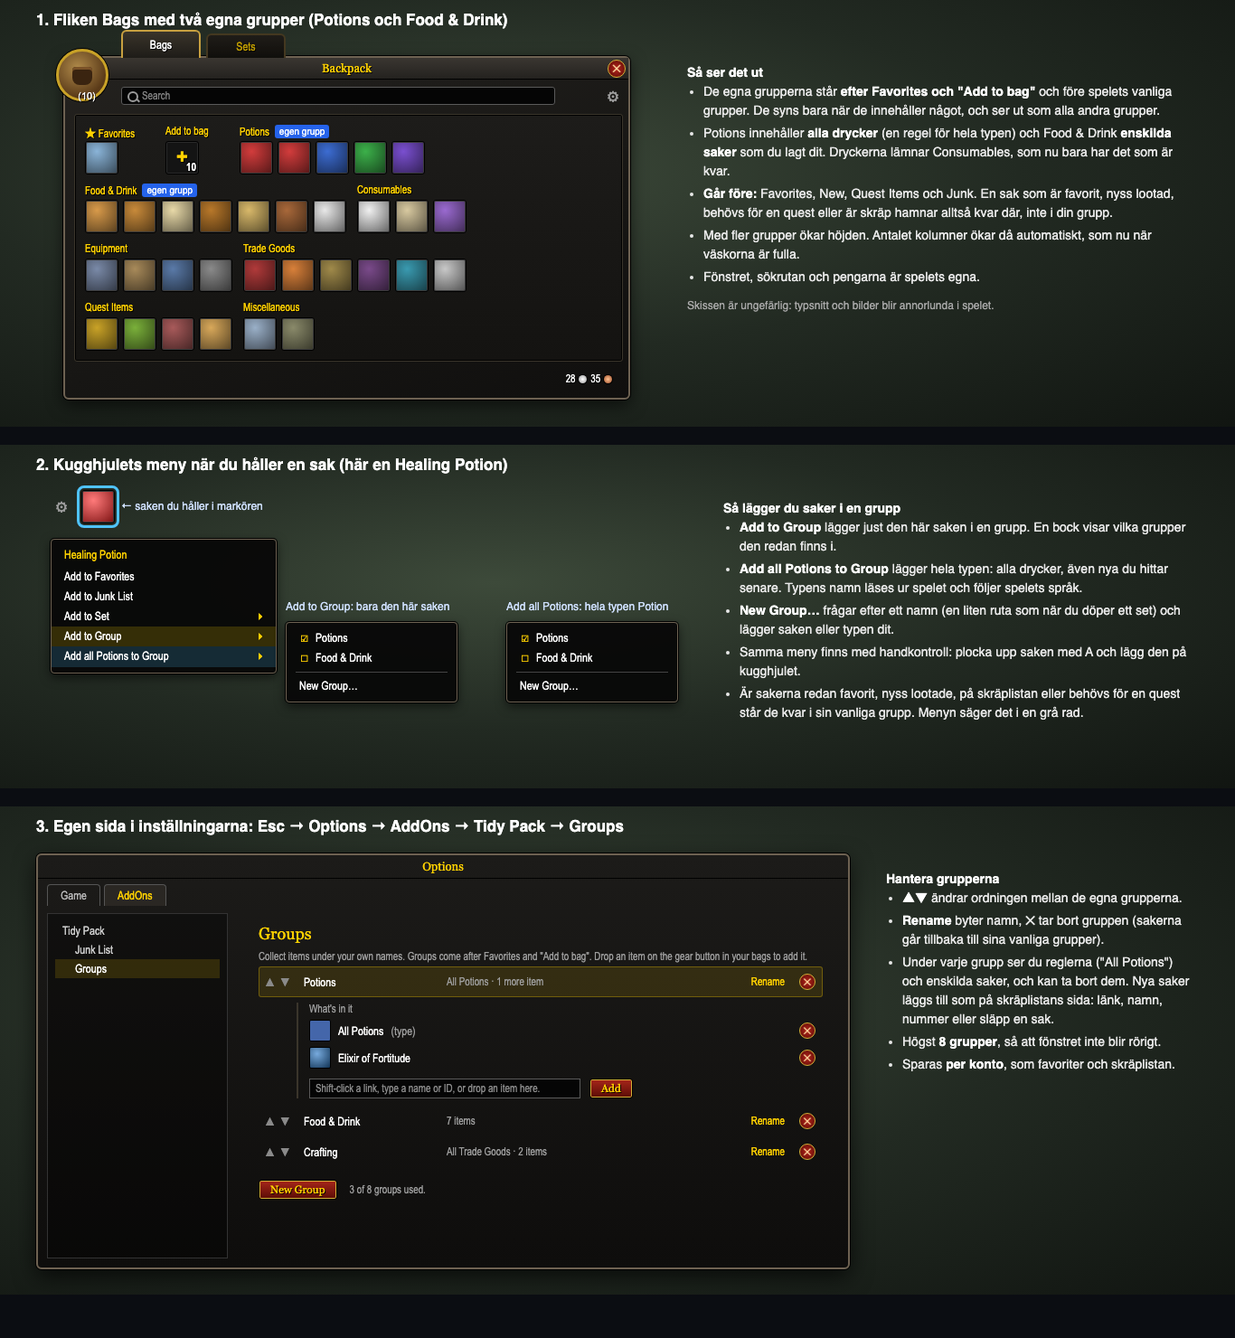
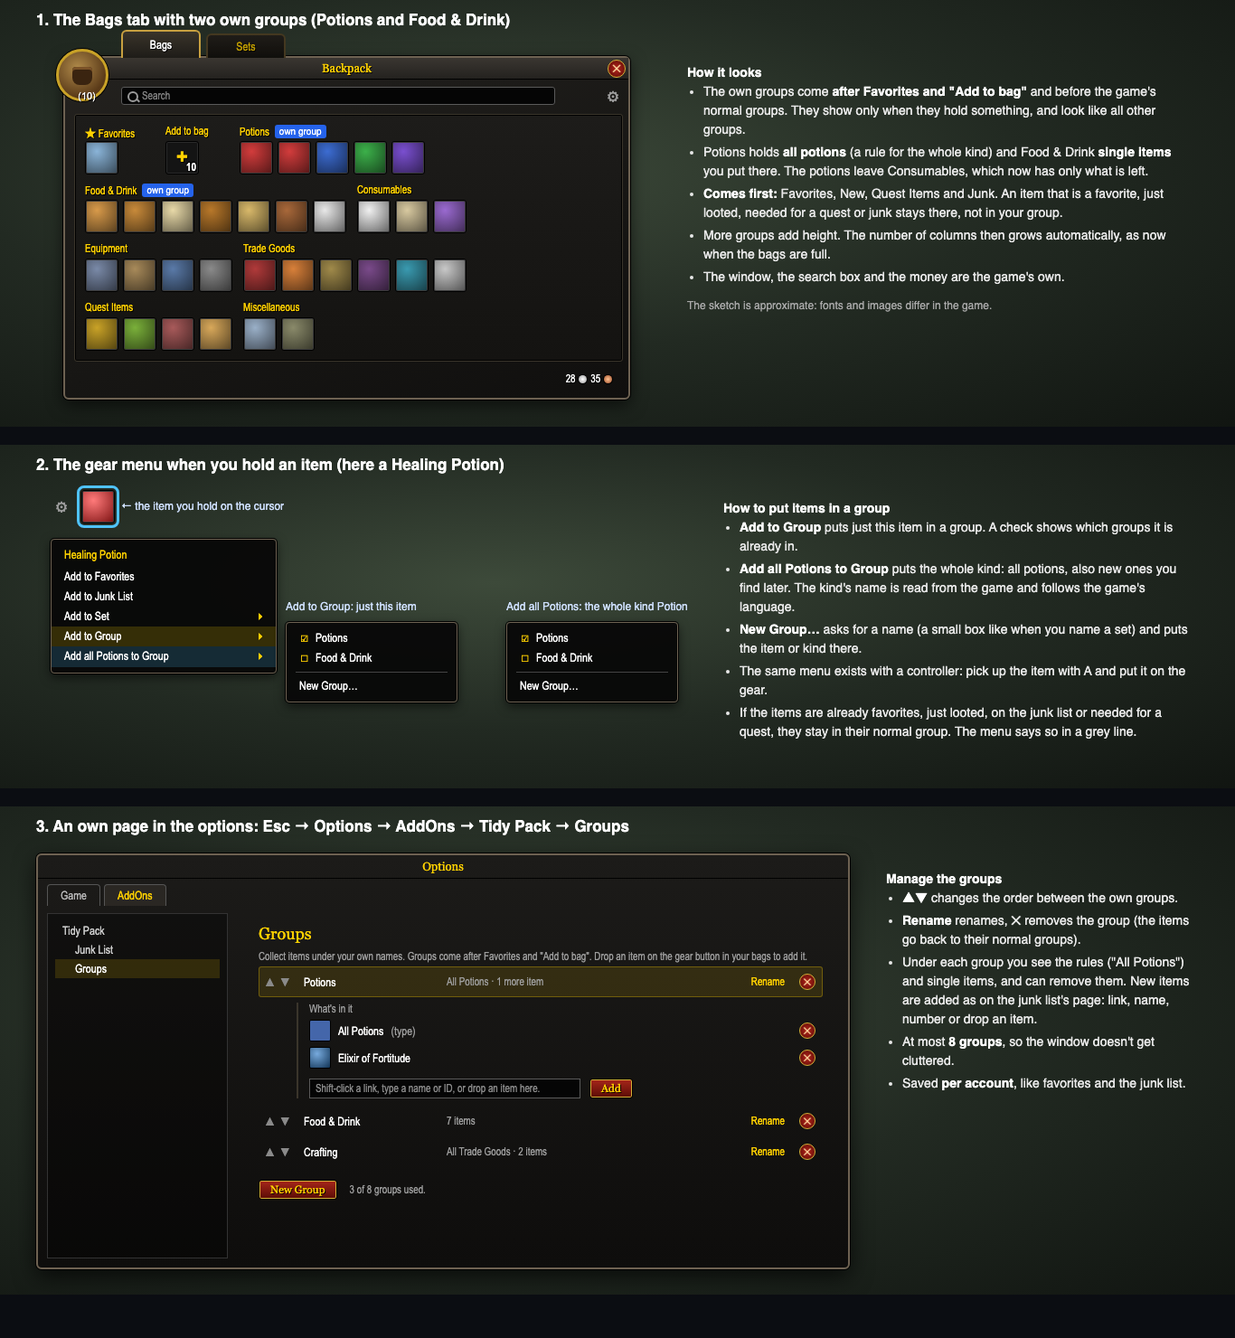
Translate .design/sketch-groups to English (#7)

diff --git a/.design/sketch-groups.html b/.design/sketch-groups.html
@@ -1,13 +1,13 @@
 <!DOCTYPE html>
-<html lang="sv">
+<html lang="en">
 <head>
 <meta charset="utf-8">
-<title>Tidy Pack – skiss av egna grupper</title>
+<title>Tidy Pack – sketch of own groups</title>
 <style>
   :root {
-    --wow-gold: #ffd100;       /* NORMAL_FONT_COLOR: rubriker och vanlig text */
-    --wow-white: #ffffff;      /* HIGHLIGHT_FONT_COLOR: framhävd text */
-    --wow-gray: #808080;       /* GRAY_FONT_COLOR: avstängt */
+    --wow-gold: #ffd100;       /* NORMAL_FONT_COLOR: headings and normal text */
+    --wow-white: #ffffff;      /* HIGHLIGHT_FONT_COLOR: highlighted text */
+    --wow-gray: #808080;       /* GRAY_FONT_COLOR: disabled */
     --title-font: "Friz Quadrata", "Friz Quadrata TT", Georgia, "Times New Roman", serif;
     --text-font: "Arial Narrow", "Helvetica Neue", Arial, sans-serif;
   }
@@ -23,18 +23,18 @@
   .controls legend { color: #a8a8a8; padding: 0 4px; }
   .controls label { margin-right: 12px; cursor: pointer; white-space: nowrap; }
 
-  /* Skärmen: 1366 × 768 enheter, skalas ned för att få plats i webbläsaren. */
+  /* The screen: 1366 × 768 units, scaled down to fit in the browser. */
   .viewport { width: 100%; max-width: 1366px; aspect-ratio: 1366 / 768; position: relative; overflow: hidden;
     border-radius: 6px; box-shadow: 0 0 0 1px #2a2f3a; }
   .screen { position: absolute; left: 0; top: 0; width: 1366px; height: 768px; transform-origin: 0 0;
     background: radial-gradient(ellipse at 50% 35%, #3d4a3a 0%, #222a22 45%, #111511 100%); }
 
-  /* Spelets standardgränssnitt, ungefär där det ligger från början. */
+  /* The game's default interface, roughly where it starts. */
   .blizz { position: absolute; border: 1px dashed rgba(255,255,255,.28); border-radius: 4px;
     color: rgba(255,255,255,.45); font: 12px var(--text-font); display: flex; align-items: center;
     justify-content: center; text-align: center; background: rgba(0,0,0,.18); }
 
-  /* Spelets väskfönster: ram med porträtt, titelrad och stängknapp. */
+  /* The game's bag window: frame with portrait, title bar and close button. */
   .bagframe { position: absolute; background: linear-gradient(160deg, #24221f 0%, #171614 60%, #100f0e 100%);
     border: 2px solid #6e6252; border-radius: 6px; box-shadow: 0 0 0 1px #000, 0 6px 18px rgba(0,0,0,.6); }
   .bagframe .titlebar { position: absolute; left: 0; right: 0; top: 0; height: 24px; border-bottom: 1px solid #000;
@@ -50,7 +50,7 @@
     background: radial-gradient(#b22219, #5b0d08); border: 1px solid #d4af37; color: #ffd9a0;
     font: bold 12px/18px Arial, sans-serif; text-align: center; }
 
-  /* Innehållet. Alla lägen räknas från fönstrets övre vänstra hörn. */
+  /* The content. All positions count from the window's top left corner. */
   .abs { position: absolute; }
   .search { height: 20px; border: 1px solid #5a5a5a; border-radius: 3px; background: #050505;
     font: 12px var(--text-font); color: var(--wow-gray); padding: 1px 6px 0 22px; line-height: 17px; }
@@ -58,17 +58,17 @@
     border: 2px solid #9a9a9a; border-radius: 50%; }
   .search::after { content: ""; position: absolute; left: 15px; top: 13px; width: 5px; height: 2px;
     background: #9a9a9a; transform: rotate(45deg); }
-  /* ★-knappen: svag tills du håller en sak. */
+  /* The ★ button: faint until you hold an item. */
   .starbutton { width: 26px; height: 26px; color: var(--wow-gold); font: 22px/26px Arial, sans-serif;
     text-align: center; text-shadow: 0 0 4px #ffb000, 1px 1px 0 #000; }
   .starbutton.idle { opacity: .35; }
   .header { font: 12px var(--text-font); color: var(--wow-gold); text-shadow: 1px 1px 0 #000; white-space: nowrap; }
   .header .star { color: var(--wow-gold); }
-  /* Förslag: flikar ovanför fönstret (spelets PanelTopTabButtonTemplate) och fliken Sets. */
+  /* Proposal: tabs above the window (the game's PanelTopTabButtonTemplate) and the Sets tab. */
   .toptab { position: absolute; height: 26px; width: 84px; display: flex; align-items: center; justify-content: center;
     font: 12px var(--text-font); color: var(--wow-gold); text-shadow: 1px 1px 0 #000; border: 2px solid #5a4a2a;
     border-bottom: none; border-radius: 6px 6px 0 0; background: linear-gradient(#2a2620, #15130f); }
-  /* Flikarna som i Forevers trollbok, men ovanpå fönstrets kant; den valda högre och ljusare. */
+  /* The tabs as in Forever's spellbook, but on top of the window's edge; the chosen one taller and lighter. */
   .toptab { height: 27px; width: 88px; font-size: 13px; filter: brightness(0.75); z-index: 3; }
   .toptab.active { height: 31px; color: #fff; background: linear-gradient(#3a342a, #1e1c18); border-color: #c8a040; filter: none; }
   .setrow { position: absolute; height: 44px; border-radius: 3px; }
@@ -83,7 +83,7 @@
   .setrow .mini.gone { background: #222; box-shadow: inset 0 0 0 1px #555; }
   .setrow .worn.warnright { color: #ff9a2a; }
   .setshint { position: absolute; font: 11px var(--text-font); color: #9a9a9a; }
-  /* Förslag: specialväskorna längst ned, under en skiljelinje som i spelets egna fönster. */
+  /* Proposal: the special bags at the bottom, under a divider as in the game's own windows. */
   .divider { height: 1px; background: linear-gradient(90deg, transparent, #8a7440 15%, #8a7440 85%, transparent); }
   .header .bagicon { display: inline-block; width: 12px; height: 12px; margin-right: 4px; vertical-align: -2px;
     border-radius: 2px; background: linear-gradient(135deg, #a07040, #4a2a10); box-shadow: 0 0 0 1px #000; }
@@ -94,8 +94,8 @@
   .slot .count { right: 2px; bottom: 0; font-size: 12px; }
   .slot .ilvl { left: 2px; top: 0; }
   .slot .boe { left: 2px; bottom: 0; }
-  .slot.q2 { box-shadow: inset 0 0 0 2px #1eff00; }   /* ovanlig: grön ram */
-  .slot.q3 { box-shadow: inset 0 0 0 2px #0070dd; }   /* sällsynt: blå ram */
+  .slot.q2 { box-shadow: inset 0 0 0 2px #1eff00; }   /* uncommon: green border */
+  .slot.q3 { box-shadow: inset 0 0 0 2px #0070dd; }   /* rare: blue border */
   .slot.junk::after { content: ""; position: absolute; left: 2px; top: 2px; width: 9px; height: 9px;
     border-radius: 50%; background: radial-gradient(#e8d070, #8a6a10); box-shadow: 0 0 0 1px #000; }
   .slot.quest::after { content: "!"; position: absolute; left: 3px; top: 0; font: bold 14px Arial, sans-serif;
@@ -107,7 +107,7 @@
   .slot.empty { background: #141414; box-shadow: inset 0 0 0 1px #2a2a2a; }
   .slot.cursor { outline: 3px solid #4fc3ff; outline-offset: 2px; }
   .slot.disabled { filter: grayscale(.8) brightness(.55); }
-  /* Låset: en liten bygel och kropp uppe till höger. Syns bara hos en handlare. */
+  /* The lock: a small shackle and body at the top right. Shows only at a merchant. */
   .lock { position: absolute; right: 1px; top: 1px; width: 11px; height: 13px; }
   .lock::before { content: ""; position: absolute; left: 2px; top: 0; width: 7px; height: 7px;
     border: 2px solid #e8d070; border-bottom: none; border-radius: 4px 4px 0 0; }
@@ -119,14 +119,12 @@
   .coin.gold { background: radial-gradient(#fff2a0, #c9a227); }
   .coin.silver { background: radial-gradient(#ffffff, #9a9a9a); }
   .coin.copper { background: radial-gradient(#ffc090, #a0522d); }
-  /* Spelets röda knapp (UIPanelButtonTemplate). */
+  /* The game's red button (UIPanelButtonTemplate). */
   .redbutton { position: absolute; height: 22px; padding: 0 12px; border-radius: 3px; border: 1px solid #000;
     background: linear-gradient(#a8261a, #5a0c06); box-shadow: inset 0 0 0 1px #d4af37;
     font: 12px/20px var(--title-font); color: var(--wow-gold); text-shadow: 1px 1px 0 #000; white-space: nowrap; }
 
-  /* Förslag: spelets ruta för tips (mallen HelpTipTemplate, som ärver GlowBoxTemplate). Mörk ruta
-     med gul glöd, vit text och en gul pil mot det tipset handlar om. 226 enheter bred, som
-     HelpTip.width i spelets kod. */
+  /* Proposal: the game's tip box (the template HelpTipTemplate, which inherits GlowBoxTemplate). A dark box with a yellow glow, white text and a yellow arrow towards what the tip is about. 226 units wide, like HelpTip.width in the game's code. */
   .helptip { position: absolute; width: 226px; padding: 14px 16px 12px; background: rgba(0,0,0,.9);
     border: 1px solid #ffd100; border-radius: 3px; color: var(--wow-white); font: 13px/1.35 var(--text-font);
     box-shadow: 0 0 7px 2px rgba(255,190,0,.8), inset 0 0 8px rgba(255,190,0,.3); z-index: 5; }
@@ -135,8 +133,7 @@
   .tiparrow { position: absolute; width: 0; height: 0; z-index: 6; filter: drop-shadow(0 0 3px #ffb000); }
   .tiparrow.down { border-left: 11px solid transparent; border-right: 11px solid transparent; border-top: 16px solid #ffd100; }
   .tiparrow.right { border-top: 11px solid transparent; border-bottom: 11px solid transparent; border-left: 16px solid #ffd100; }
-  /* Handkontrollens knappar. Spelet visar symbolerna för just den kontroll man har (Xbox,
-     PlayStation eller Switch); här ritas Xbox-varianten ungefär. */
+  /* The controller's buttons. The game shows the symbols for the controller you have (Xbox, PlayStation or Switch); here the Xbox variant is drawn roughly. */
   .pad { display: inline-block; min-width: 17px; height: 17px; padding: 0 3px; border-radius: 9px; margin: 0 1px;
     font: bold 10px/17px Arial, sans-serif; color: #fff; text-align: center; vertical-align: -3px;
     box-shadow: 0 0 0 1px #000; text-shadow: none; }
@@ -145,9 +142,7 @@
   .pad.lb, .pad.rb { background: #3c3c3c; border-radius: 4px; }
   #tipNote { min-height: 0; }
 
-  /* Förslag: skräpknappen bredvid ★ och märket på saker du markerat som skräp är spelets eget
-     skräpmynt (bags-junkcoin, som spelet visar på grå saker hos en handlare). Saker som en quest
-     behöver senare får kartans gula utropstecken för quests du kan ta (QuestNormal). */
+  /* Proposal: the junk button next to ★ and the mark on items you marked as junk are the game's own junk coin (bags-junkcoin, which the game shows on grey items at a merchant). Items a quest needs later get the map's yellow exclamation mark for quests you can take (QuestNormal). */
   .trashbutton { width: 26px; height: 26px; }
   .trashbutton.idle { opacity: .35; }
   .trashbutton::before { content: ""; position: absolute; left: 4px; top: 4px; width: 18px; height: 18px; border-radius: 50%;
@@ -157,12 +152,12 @@
   .slot .later { position: absolute; right: 3px; top: -1px; font: bold 14px Arial, sans-serif; color: #ffd100;
     text-shadow: 1px 1px 0 #000, -1px 0 0 #000; }
   .slot .later::before { content: "!"; }
-  /* Spelets tooltip, ungefär. */
+  /* The game's tooltip, roughly. */
   .gametip { position: absolute; max-width: 280px; padding: 6px 9px; background: rgba(6,8,22,.95);
     border: 1px solid #9a9a9a; border-radius: 4px; font: 12px/1.45 var(--text-font); color: #fff; z-index: 7; }
   .gametip .gold { color: var(--wow-gold); }
   .gametip .white { font-size: 13px; }
-  /* Spelets lootfönster, ungefär, och Tidy Packs fråga under det. */
+  /* The game's loot window, roughly, and Tidy Pack's question under it. */
   .lootframe { position: absolute; width: 200px; background: linear-gradient(#2a2723, #151412);
     border: 2px solid #6e6252; border-radius: 5px; box-shadow: 0 0 0 1px #000, 0 6px 18px rgba(0,0,0,.6); }
   .lootframe .ltitle { font: 13px/24px var(--title-font); color: var(--wow-gold); text-align: center;
@@ -170,7 +165,7 @@
   .lootrow { display: flex; align-items: center; gap: 7px; padding: 5px 7px; font: 12px var(--text-font); color: #fff; }
   .lootrow .licon { width: 30px; height: 30px; border-radius: 3px; border: 1px solid #000; flex: none; }
   .lootrow.cursor .licon { outline: 3px solid #4fc3ff; outline-offset: 1px; }
-  /* Samma panel som spelets lootfönster (DefaultPanelFlatTemplate), lika bred och direkt under det. */
+  /* The same panel as the game's loot window (DefaultPanelFlatTemplate), as wide and right under it. */
   .makeroom { position: absolute; width: 200px; background: linear-gradient(#2a2723, #151412);
     border: 2px solid #6e6252; border-radius: 5px; box-shadow: 0 0 0 1px #000, 0 6px 18px rgba(0,0,0,.6);
     font: 12px/1.4 var(--text-font); color: #fff; z-index: 6; }
@@ -184,7 +179,7 @@
   .errortext { position: absolute; left: 0; right: 0; top: 150px; text-align: center; color: #ff2a2a;
     font: bold 17px var(--title-font); text-shadow: 1px 1px 0 #000, 0 0 4px #000; }
 
-  /* Förslag: spelets egen meny (Menu-systemet, MenuUtil.CreateContextMenu), ungefär. */
+  /* Proposal: the game's own menu (the Menu system, MenuUtil.CreateContextMenu), roughly. */
   .gamemenu { position: absolute; min-width: 190px; padding: 6px 0; background: rgba(8,8,8,.96);
     border: 1px solid #6e6252; border-radius: 4px; box-shadow: 0 0 0 1px #000, 0 4px 12px rgba(0,0,0,.6);
     font: 13px/1.7 var(--text-font); color: #fff; z-index: 8; }
@@ -192,7 +187,7 @@
   .gamemenu .mitem { padding: 0 14px; }
   .gamemenu .mitem.focus { background: rgba(255,209,0,.18); }
   .gamemenu .sep { height: 1px; margin: 4px 10px; background: #444; }
-  /* Förslag: spelets inställningsfönster (Options → AddOns), ungefär. */
+  /* Proposal: the game's options window (Options → AddOns), roughly. */
   .options { position: absolute; left: 233px; top: 70px; width: 900px; height: 610px; z-index: 9;
     background: linear-gradient(#1c1b19, #0e0d0c); border: 2px solid #6e6252; border-radius: 6px;
     box-shadow: 0 0 0 1px #000, 0 8px 24px rgba(0,0,0,.7); font: 13px var(--text-font); color: #fff; }
@@ -222,7 +217,7 @@
     color: #8a8a8a; font-size: 12px; line-height: 16px; }
   .options .redbutton { position: relative; }
 
-  /* Förklaringar till skissen. */
+  /* Explanations for the sketch. */
   .callout { position: absolute; font: 12px -apple-system, "Segoe UI", sans-serif; color: #fff;
     background: #2563eb; padding: 2px 6px; border-radius: 4px; white-space: nowrap; }
   ul { max-width: 900px; padding-left: 20px; }
@@ -263,32 +258,30 @@
 </head>
 <body>
 
-<!-- ============================================================ 1. Väskan -->
+<!-- ============================================================ 1. The bags -->
 <div class="card" style="height: 470px;">
-  <h2>1. Fliken Bags med två egna grupper (Potions och Food &amp; Drink)</h2>
+  <h2>1. The Bags tab with two own groups (Potions and Food &amp; Drink)</h2>
   <div class="bagframe" id="bag" style="left: 70px; top: 62px; width: 628px; height: 380px;"></div>
   <div class="side" style="left: 760px; top: 70px;">
-    <b>Så ser det ut</b>
+    <b>How it looks</b>
     <ul>
-      <li>De egna grupperna står <b>efter Favorites och "Add to bag"</b> och före spelets vanliga grupper.
-        De syns bara när de innehåller något, och ser ut som alla andra grupper.</li>
-      <li>Potions innehåller <b>alla drycker</b> (en regel för hela typen) och Food &amp; Drink
-        <b>enskilda saker</b> som du lagt dit. Dryckerna lämnar Consumables, som nu bara har det som är kvar.</li>
-      <li><b>Går före:</b> Favorites, New, Quest Items och Junk. En sak som är favorit, nyss lootad, behövs
-        för en quest eller är skräp hamnar alltså kvar där, inte i din grupp.</li>
-      <li>Med fler grupper ökar höjden. Antalet kolumner ökar då automatiskt, som nu när väskorna är fulla.</li>
-      <li>Fönstret, sökrutan och pengarna är spelets egna.</li>
+      <li>The own groups come <b>after Favorites and "Add to bag"</b> and before the game's normal groups. They show only when they hold something, and look like all other groups.</li>
+      <li>Potions holds <b>all potions</b> (a rule for the whole kind) and Food &amp; Drink
+        <b>single items</b> you put there. The potions leave Consumables, which now has only what is left.</li>
+      <li><b>Comes first:</b> Favorites, New, Quest Items and Junk. An item that is a favorite, just looted, needed for a quest or junk stays there, not in your group.</li>
+      <li>More groups add height. The number of columns then grows automatically, as now when the bags are full.</li>
+      <li>The window, the search box and the money are the game's own.</li>
     </ul>
-    <p style="color:#a8a8a8; font-size:12px;">Skissen är ungefärlig: typsnitt och bilder blir annorlunda i spelet.</p>
+    <p style="color:#a8a8a8; font-size:12px;">The sketch is approximate: fonts and images differ in the game.</p>
   </div>
 </div>
 
-<!-- ============================================================ 2. Menyn -->
+<!-- ============================================================ 2. The menu -->
 <div class="card" style="height: 380px;">
-  <h2>2. Kugghjulets meny när du håller en sak (här en Healing Potion)</h2>
+  <h2>2. The gear menu when you hold an item (here a Healing Potion)</h2>
   <div class="gear" style="left: 56px; top: 56px;">⚙</div>
   <div class="slot abs" style="left: 90px; top: 50px; background: radial-gradient(circle at 35% 30%, #ff7a7a, #7a1010); outline: 3px solid #4fc3ff; outline-offset: 2px;"></div>
-  <div class="mcap" style="left: 134px; top: 60px;">← saken du håller i markören</div>
+  <div class="mcap" style="left: 134px; top: 60px;">← the item you hold on the cursor</div>
 
   <div class="gamemenu flat" style="left: 56px; top: 104px; min-width: 250px;">
     <div class="mtitle">Healing Potion</div>
@@ -305,7 +298,7 @@
     <div class="sep"></div>
     <div class="mitem">New Group…</div>
   </div>
-  <div class="mcap" style="left: 316px; top: 172px;">Add to Group: bara den här saken</div>
+  <div class="mcap" style="left: 316px; top: 172px;">Add to Group: just this item</div>
 
   <div class="gamemenu flat" style="left: 560px; top: 196px; min-width: 190px;">
     <div class="mitem"><span class="box">☑</span>Potions</div>
@@ -313,25 +306,23 @@
     <div class="sep"></div>
     <div class="mitem">New Group…</div>
   </div>
-  <div class="mcap" style="left: 560px; top: 172px;">Add all Potions: hela typen Potion</div>
+  <div class="mcap" style="left: 560px; top: 172px;">Add all Potions: the whole kind Potion</div>
 
   <div class="side" style="left: 800px; top: 60px; width: 520px;">
-    <b>Så lägger du saker i en grupp</b>
+    <b>How to put items in a group</b>
     <ul>
-      <li><b>Add to Group</b> lägger just den här saken i en grupp. En bock visar vilka grupper den redan finns i.</li>
-      <li><b>Add all Potions to Group</b> lägger hela typen: alla drycker, även nya du hittar senare.
-        Typens namn läses ur spelet och följer spelets språk.</li>
-      <li><b>New Group…</b> frågar efter ett namn (en liten ruta som när du döper ett set) och lägger saken eller typen dit.</li>
-      <li>Samma meny finns med handkontroll: plocka upp saken med A och lägg den på kugghjulet.</li>
-      <li>Är sakerna redan favorit, nyss lootade, på skräplistan eller behövs för en quest står de kvar i sin
-        vanliga grupp. Menyn säger det i en grå rad.</li>
+      <li><b>Add to Group</b> puts just this item in a group. A check shows which groups it is already in.</li>
+      <li><b>Add all Potions to Group</b> puts the whole kind: all potions, also new ones you find later. The kind's name is read from the game and follows the game's language.</li>
+      <li><b>New Group…</b> asks for a name (a small box like when you name a set) and puts the item or kind there.</li>
+      <li>The same menu exists with a controller: pick up the item with A and put it on the gear.</li>
+      <li>If the items are already favorites, just looted, on the junk list or needed for a quest, they stay in their normal group. The menu says so in a grey line.</li>
     </ul>
   </div>
 </div>
 
-<!-- ============================================================ 3. Inställningssidan -->
+<!-- ============================================================ 3. The options page -->
 <div class="card" style="height: 540px;">
-  <h2>3. Egen sida i inställningarna: Esc → Options → AddOns → Tidy Pack → Groups</h2>
+  <h2>3. An own page in the options: Esc → Options → AddOns → Tidy Pack → Groups</h2>
   <div class="options" style="left: 40px; top: 52px; width: 900px; height: 460px;">
     <div class="otitle">Options</div>
     <div class="tabs"><div class="tab">Game</div><div class="tab on">AddOns</div></div>
@@ -366,22 +357,21 @@
     </div>
   </div>
   <div class="side" style="left: 980px; top: 70px; width: 340px;">
-    <b>Hantera grupperna</b>
+    <b>Manage the groups</b>
     <ul>
-      <li><b>▲▼</b> ändrar ordningen mellan de egna grupperna.</li>
-      <li><b>Rename</b> byter namn, <b>✕</b> tar bort gruppen (sakerna går tillbaka till sina vanliga grupper).</li>
-      <li>Under varje grupp ser du reglerna ("All Potions") och enskilda saker, och kan ta bort dem. Nya saker
-        läggs till som på skräplistans sida: länk, namn, nummer eller släpp en sak.</li>
-      <li>Högst <b>8 grupper</b>, så att fönstret inte blir rörigt.</li>
-      <li>Sparas <b>per konto</b>, som favoriter och skräplistan.</li>
+      <li><b>▲▼</b> changes the order between the own groups.</li>
+      <li><b>Rename</b> renames, <b>✕</b> removes the group (the items go back to their normal groups).</li>
+      <li>Under each group you see the rules ("All Potions") and single items, and can remove them. New items are added as on the junk list's page: link, name, number or drop an item.</li>
+      <li>At most <b>8 groups</b>, so the window doesn't get cluttered.</li>
+      <li>Saved <b>per account</b>, like favorites and the junk list.</li>
     </ul>
   </div>
 </div>
 
 <script>
-// ------------------------------------------------------------------ hjälpare
+// ------------------------------------------------------------------ helpers
 function icon(c) {
-  // en enkel "ikon": en färgad ruta med lite ljus uppe till vänster
+  // a simple "icon": a colored square with a little light at the top left
   const shade = (hex, f) => '#' + hex.slice(1).match(/../g).map(h => Math.round(parseInt(h, 16) * f).toString(16).padStart(2, '0')).join('');
   return 'background: radial-gradient(circle at 35% 30%, ' + shade(c, 1.35 > 1 ? 1 : 1) + ', ' + shade(c, 0.4) + ');';
 }
@@ -390,7 +380,7 @@ const GRID = COLS * BUTTON + (COLS - 1) * SPACING;
 const bag = document.getElementById('bag');
 function add(html) { bag.insertAdjacentHTML('beforeend', html); }
 
-// ------------------------------------------------------------------ ramen
+// ------------------------------------------------------------------ the frame
 add('<div class="titlebar">Backpack</div><div class="portrait"></div>' +
     '<div class="abs" style="left:2px; top:36px; width:44px; text-align:center; font:11px Arial; color:#fff; text-shadow:1px 1px 0 #000; z-index:2;">(10)</div>' +
     '<div class="close">✕</div>' +
@@ -398,7 +388,7 @@ add('<div class="titlebar">Backpack</div><div class="portrait"></div>' +
     '<div class="abs search" style="left:62px; top:32px; width:480px;">Search</div><div class="gear" style="left:594px; top:30px;">⚙</div>');
 
 const insetLeft = 10, contentLeft = 22, contentTop = 74;
-// ------------------------------------------------------------------ grupperna
+// ------------------------------------------------------------------ the groups
 const groups = [
   { h: '★ Favorites', items: ['#8ab4d8'] },
   { h: 'Add to bag', free: true },
@@ -421,7 +411,7 @@ groups.forEach(g => {
   if (x > 0 && left + w > GRID) { y += shelf + SHELF; left = 0; shelf = 0; }
   const px = contentLeft + left, py = contentTop + y;
   add('<div class="abs header" style="left:' + px + 'px; top:' + py + 'px;">' + g.h +
-      (g.custom ? '<span class="tag">egen grupp</span>' : '') + '</div>');
+      (g.custom ? '<span class="tag">own group</span>' : '') + '</div>');
   if (g.free) {
     add('<div class="abs slot empty" style="left:' + px + 'px; top:' + (py + HEADER) + 'px;"><div class="plus">+</div><span class="count">10</span></div>');
   } else {
